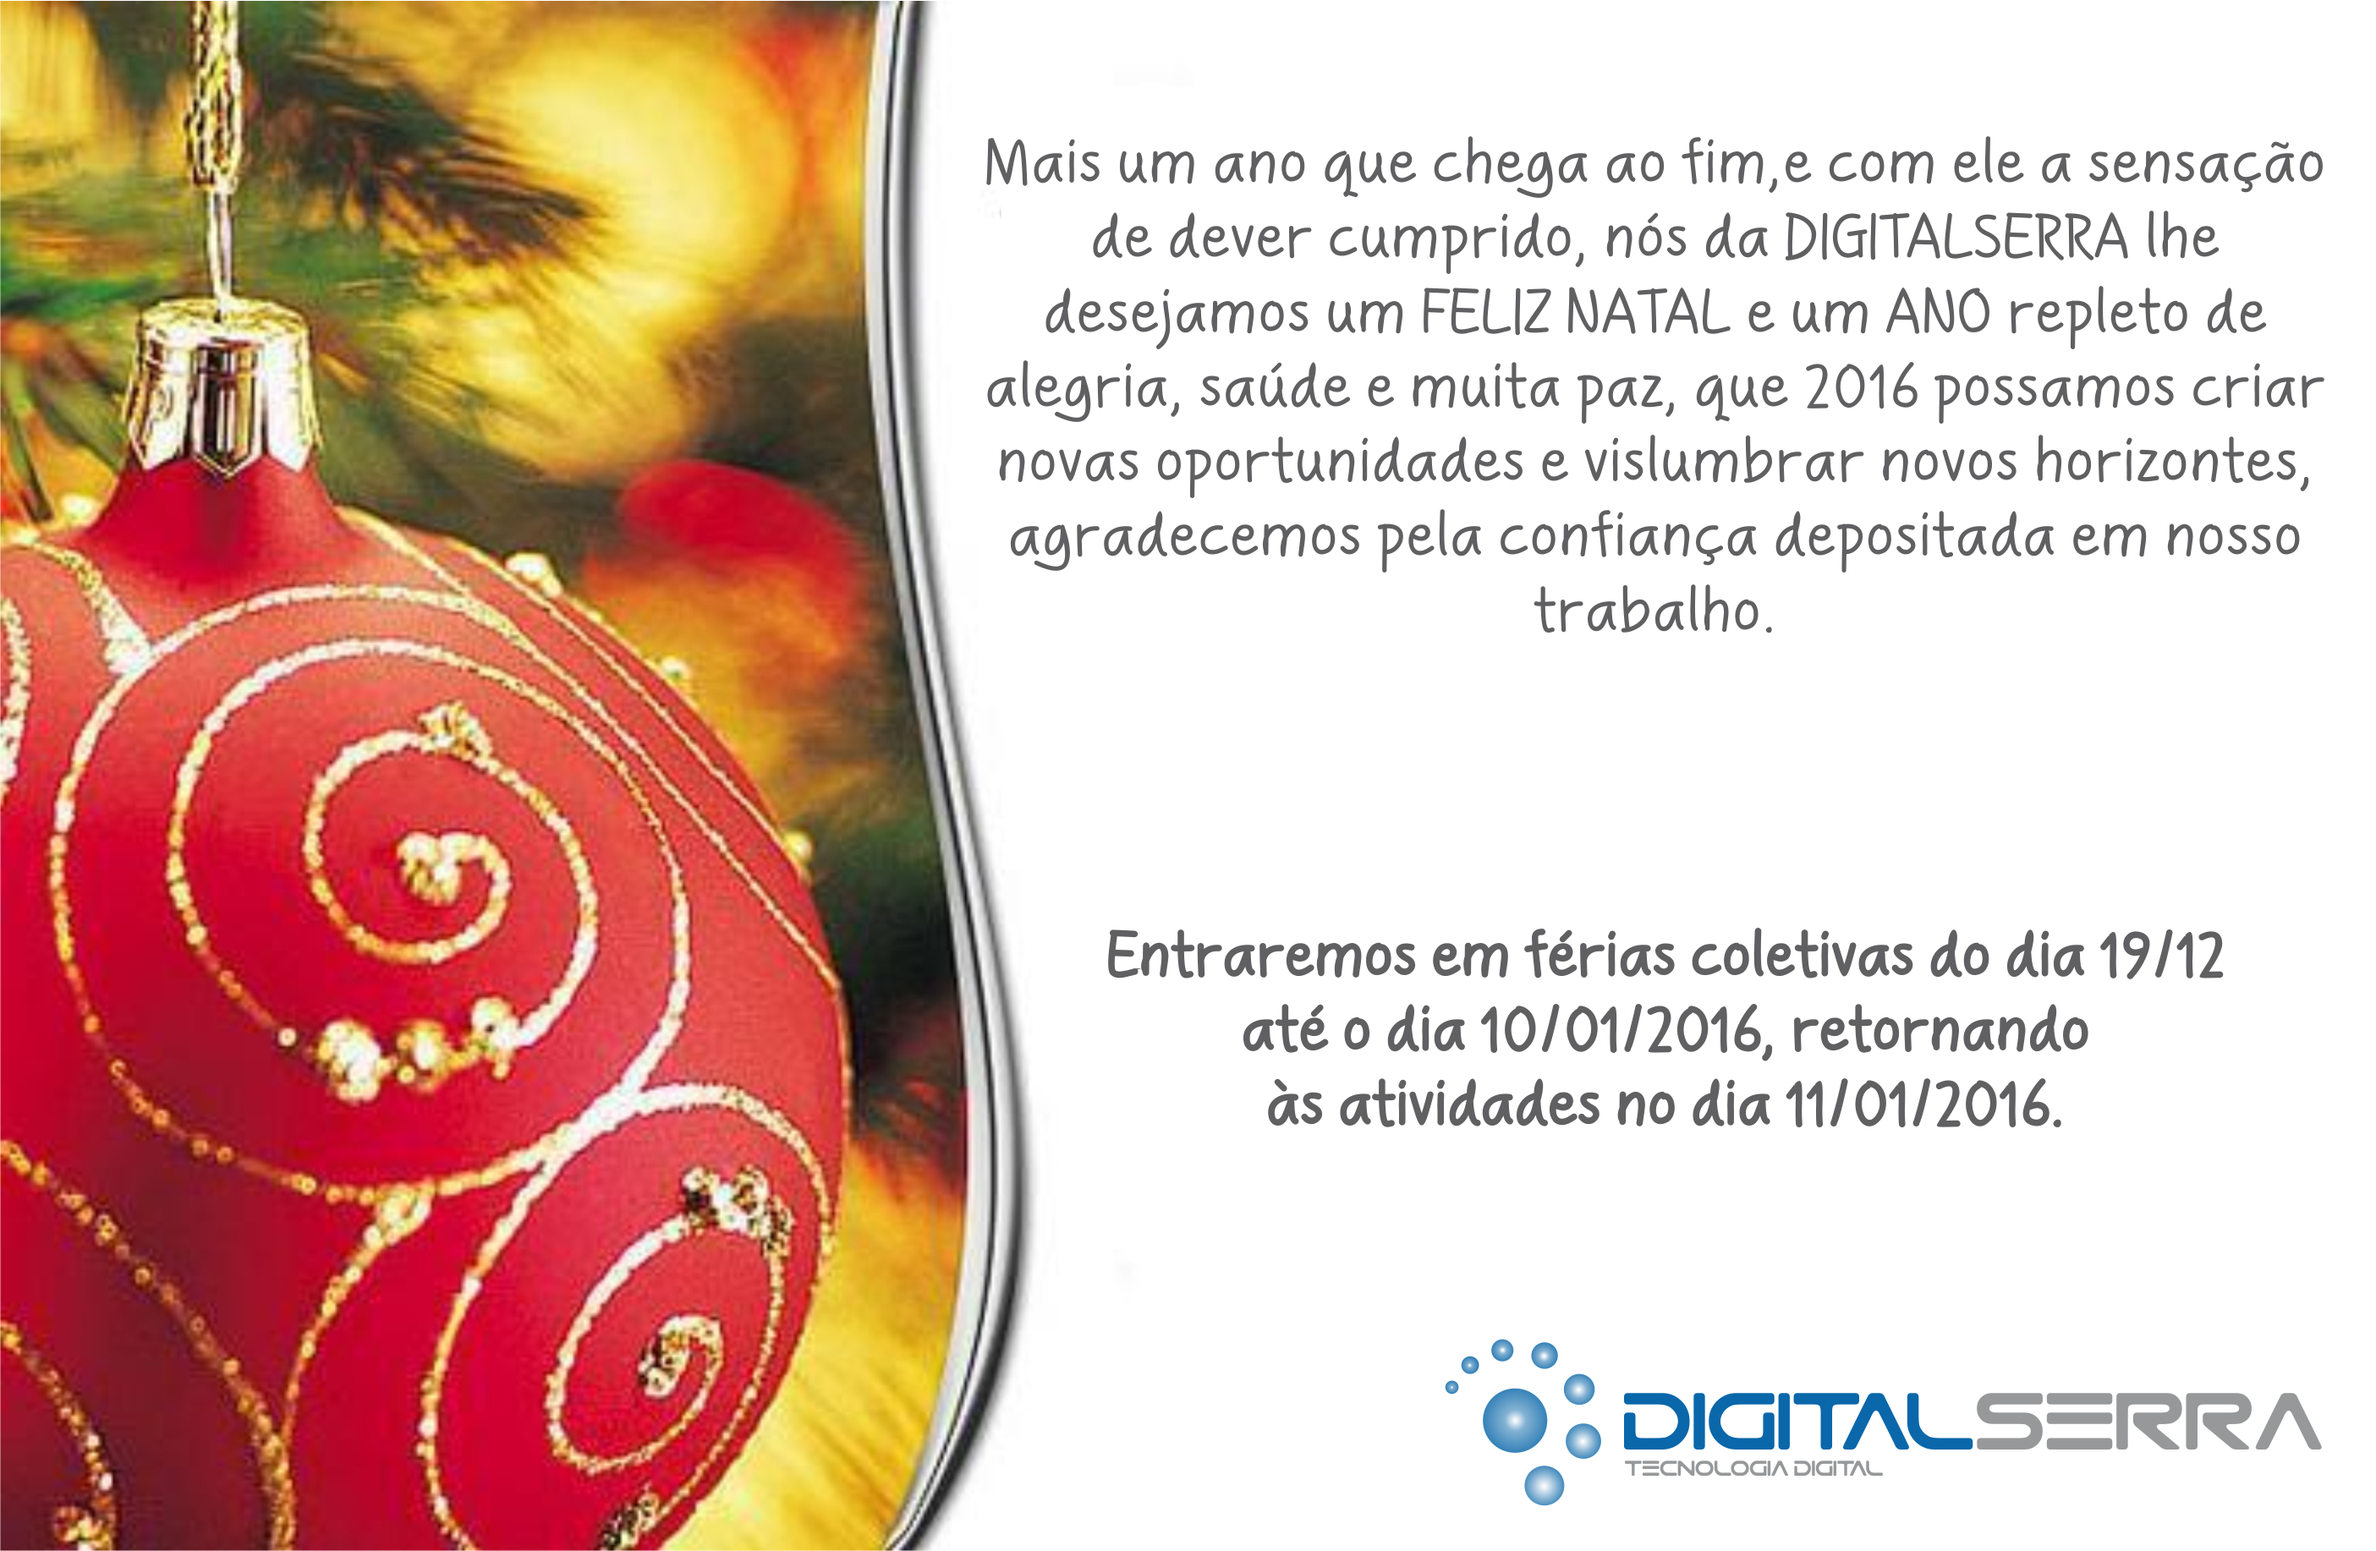
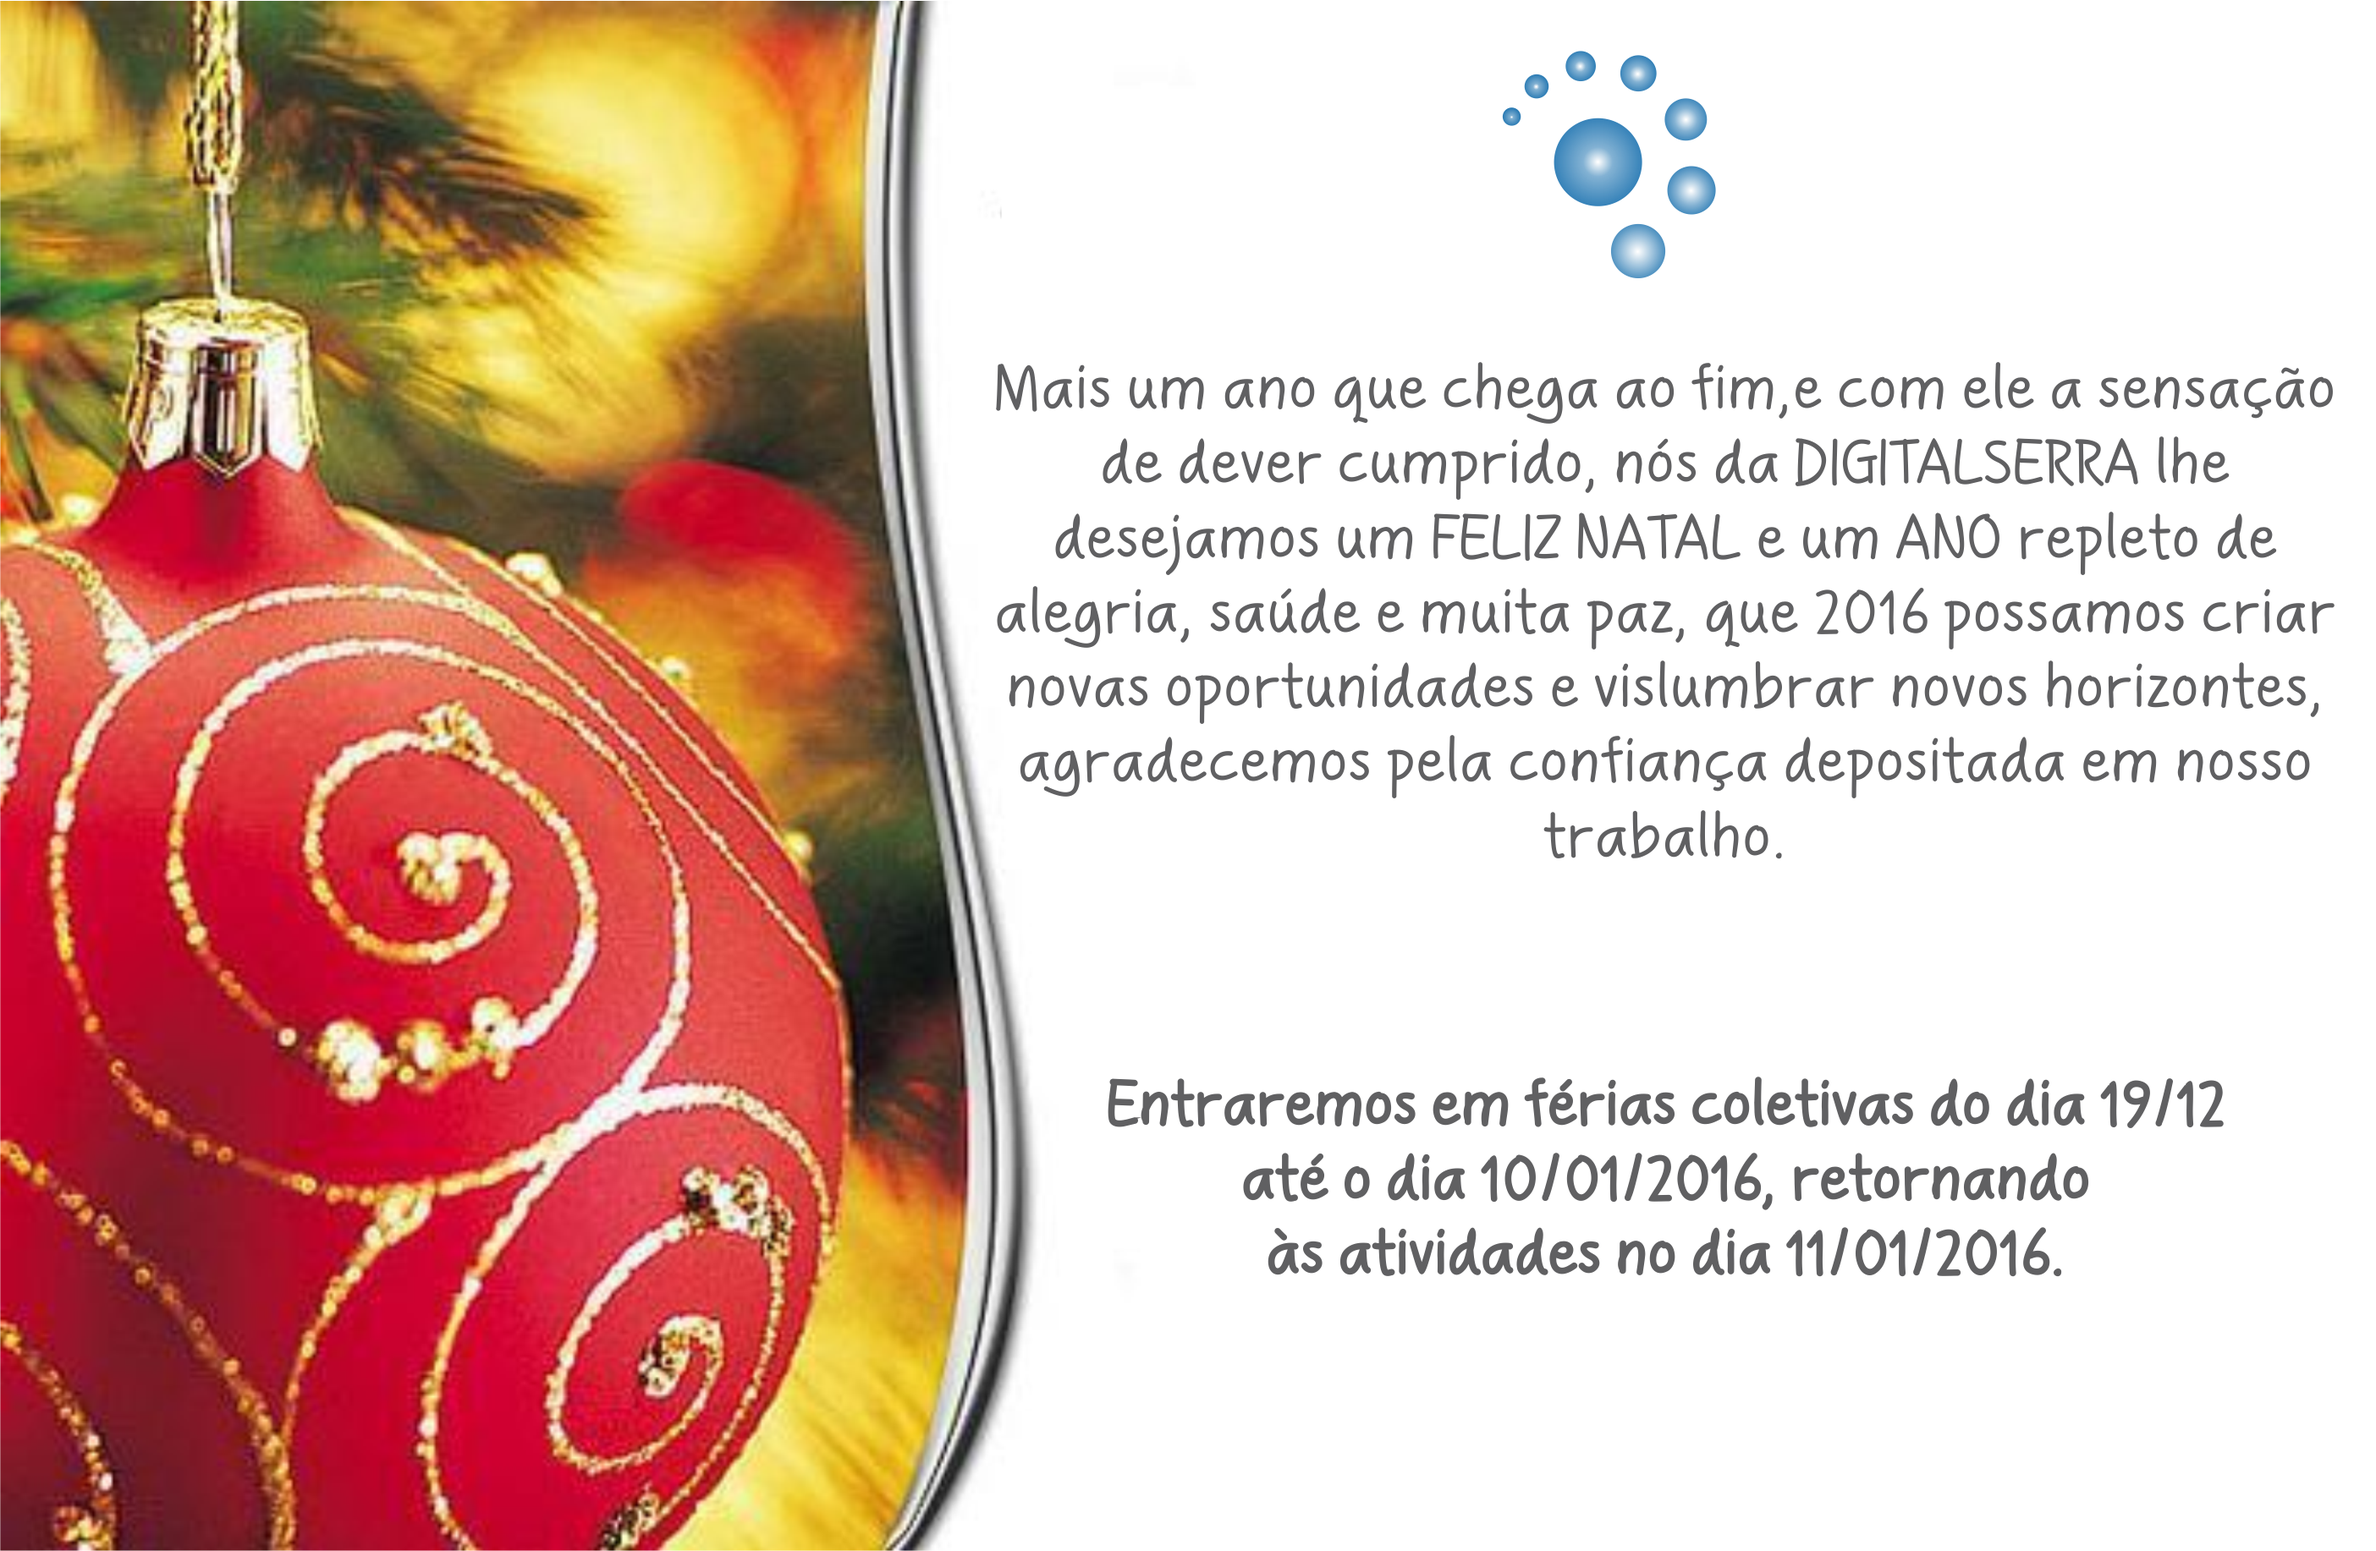
Update christmas template

Changed region(s): [[0.4028, 0.0311, 0.9915, 0.5594], [0.4647, 0.5905, 0.9295, 0.8391], [0.6197, 0.8702, 0.9915, 0.9635]]

diff --git a/resources/views/emails/templates/natal.blade.php b/resources/views/emails/templates/natal.blade.php
@@ -227,7 +227,7 @@
                                 tables centered in the emailBody table,
                                 in case its width is set to 100%.
                             -->
-                            <table border="0" cellpadding="0" cellspacing="0" width="100%" style="color:#FFFFFF;" bgcolor="#0967AA">
+                            <table border="0" cellpadding="0" cellspacing="0" width="100%" style="color:#FFFFFF;" bgcolor="#FFFFFF">
                                 <tr>
                                     <td align="center" valign="top">
                                         <!-- FLEXIBLE CONTAINER // -->
@@ -250,9 +250,9 @@
                                                     <table border="0" cellpadding="30" cellspacing="0" width="100%">
                                                         <tr>
                                                             <td align="center" valign="top" class="textContent">
-                                                                <h1 style="color:#FFFFFF;line-height:100%;font-family:Helvetica,Arial,sans-serif;font-size:35px;font-weight:normal;margin-bottom:5px;text-align:center;">Olá, {{ $name }} </h1>
-                                                                <h2 style="text-align:center;font-weight:normal;font-family:Helvetica,Arial,sans-serif;font-size:23px;margin-bottom:10px;color:#205478;line-height:135%;"></h2>
-                                                                <div style="text-align:center;font-family:Helvetica,Arial,sans-serif;font-size:15px;margin-bottom:0;color:#FFFFFF;line-height:135%;"></div>
+                                                                <h1 style="color:#0967AA;line-height:100%;font-family:Helvetica,Arial,sans-serif;font-size:35px;font-weight:normal;margin-bottom:5px;text-align:center;">Olá, {{ $name }} </h1>
+                                                                {{--<h2 style="text-align:center;font-weight:normal;font-family:Helvetica,Arial,sans-serif;font-size:23px;margin-bottom:10px;color:#205478;line-height:135%;"></h2>
+                                                                <div style="text-align:center;font-family:Helvetica,Arial,sans-serif;font-size:15px;margin-bottom:0;color:#FFFFFF;line-height:135%;"></div>--}}
                                                             </td>
                                                         </tr>
                                                     </table>
@@ -286,7 +286,7 @@
                                         <a href="http://digitalserra.com.br" target='_blank'>
                                         <table border="0" cellpadding="30" cellspacing="0" width="500" class="flexibleContainer">
                                             <img src="{{ asset('img/natal2015.png') }}" width="500px" height="276px" alt="">
-                                            <img src="{{ asset('img/logos/digitalserra.png') }}" width="390px" height="107px" alt="">
+                                            <img src="{{ asset('img/logos/digitalserra.png') }}" width="250px" height="107px" alt="">
                                         </table>
                                             </a>
                                         <!-- // FLEXIBLE CONTAINER -->
